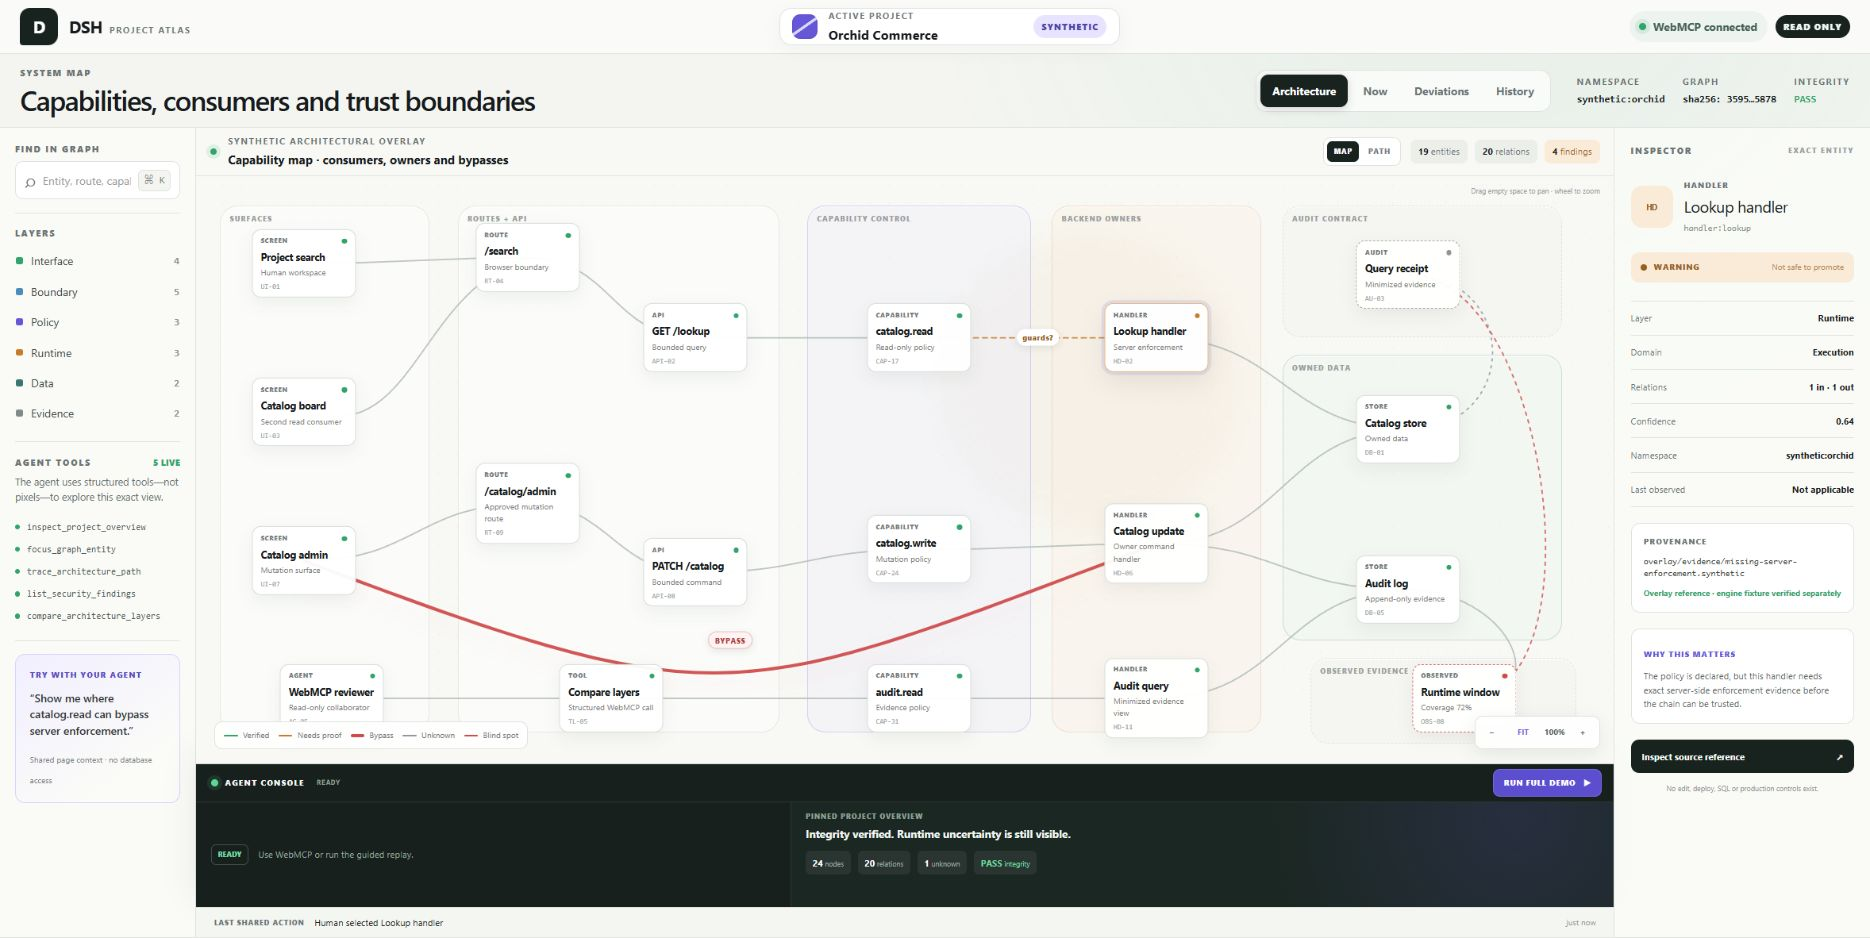
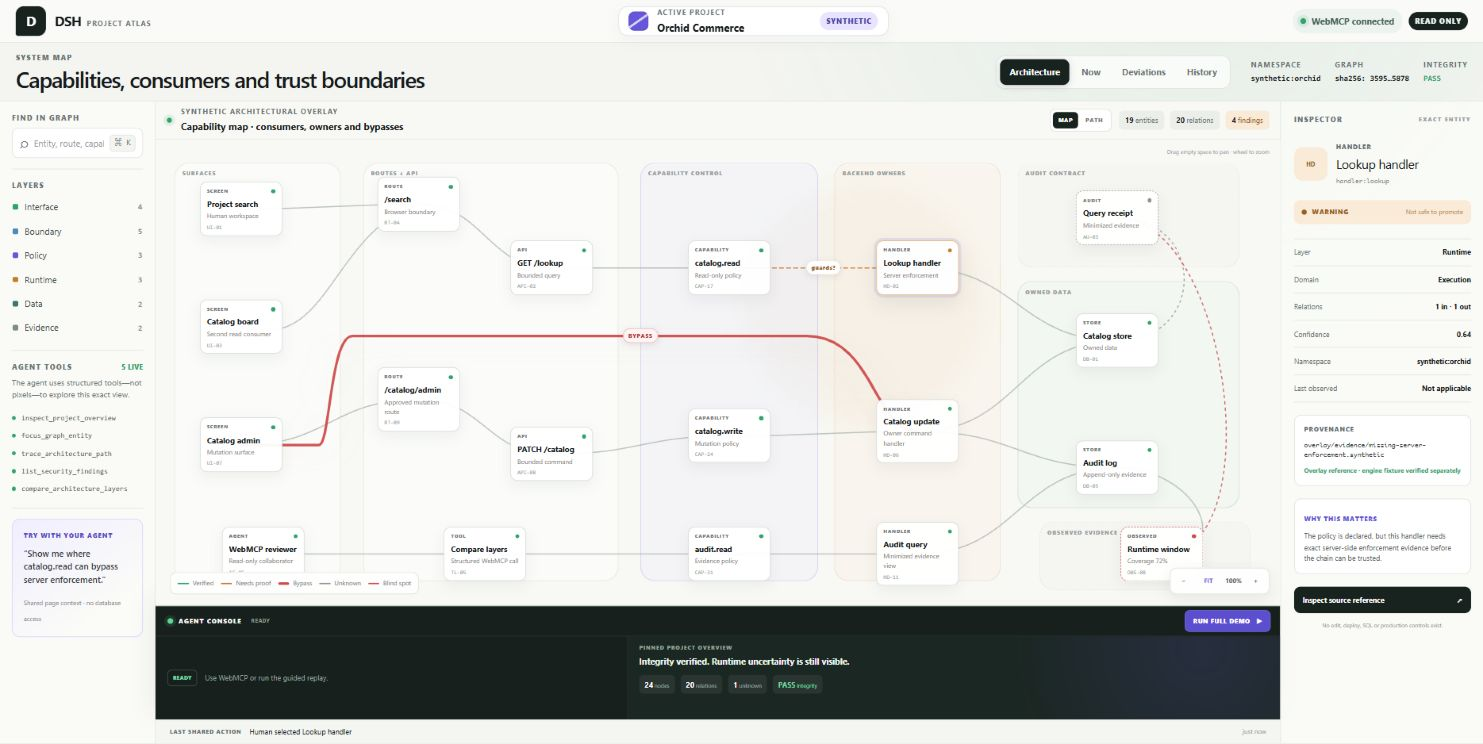
Clarify the Atlas bypass route

diff --git a/app/page.tsx b/app/page.tsx
@@ -46,6 +46,7 @@ type GraphEdge = {
   label: string;
   state: EdgeState;
   bend?: number;
+  route?: 'upper-review-lane';
 };
 
 type Finding = {
@@ -389,7 +390,13 @@ const edges: GraphEdge[] = [
   { from: 'capability:audit-read', to: 'handler:audit-query', label: 'guards', state: 'verified' },
   { from: 'handler:audit-query', to: 'store:audit-log', label: 'reads', state: 'verified' },
   { from: 'store:audit-log', to: 'telemetry:window', label: 'projects', state: 'verified' },
-  { from: 'screen:catalog-admin', to: 'handler:catalog-update', label: 'BYPASS', state: 'bypass', bend: 28 },
+  {
+    from: 'screen:catalog-admin',
+    to: 'handler:catalog-update',
+    label: 'BYPASS',
+    state: 'bypass',
+    route: 'upper-review-lane',
+  },
 ];
 
 const findings: Finding[] = [
@@ -494,6 +501,13 @@ function graphPosition(node: GraphNode, presentation: GraphPresentation, pathEnt
 }
 
 function graphEdgePath(edge: GraphEdge, from: GraphPosition, to: GraphPosition) {
+  if (edge.route === 'upper-review-lane') {
+    const laneY = 42;
+    const exitSourceX = from.x + 7;
+    const enterLaneX = from.x + 10;
+    const leaveLaneX = to.x - 10;
+    return `M ${from.x} ${from.y} C ${from.x + 3} ${from.y}, ${from.x + 5} ${from.y}, ${exitSourceX} ${from.y} C ${exitSourceX + 1} ${from.y}, ${exitSourceX + 1} ${laneY}, ${enterLaneX} ${laneY} L ${leaveLaneX} ${laneY} C ${to.x - 4} ${laneY}, ${to.x - 4} ${to.y}, ${to.x} ${to.y}`;
+  }
   const vertical = Math.abs(to.x - from.x) < 6;
   if (vertical) {
     const offset = edge.bend ?? 7;
@@ -505,6 +519,9 @@ function graphEdgePath(edge: GraphEdge, from: GraphPosition, to: GraphPosition) 
 }
 
 function graphEdgeLabelPosition(edge: GraphEdge, from: GraphPosition, to: GraphPosition): GraphPosition {
+  if (edge.route === 'upper-review-lane') {
+    return { x: 43, y: 42 };
+  }
   return {
     x: (from.x + to.x) / 2,
     y: (from.y + to.y) / 2 + (edge.bend ?? 0) * 0.55,

diff --git a/design-qa.md b/design-qa.md
@@ -2,13 +2,15 @@
 
 ## Comparison target
 
-- Source visual truth: user-supplied `codex-clipboard-16e2bb25-19c1-4a02-9ffb-df30476d5cf1.png` from the previous public Atlas build (conversation attachment; not committed).
+- Shell source visual truth: user-supplied `codex-clipboard-16e2bb25-19c1-4a02-9ffb-df30476d5cf1.png` from the previous public Atlas build (conversation attachment; not committed).
+- BYPASS correction source: user-supplied `codex-clipboard-2b49a2b0-ca73-4f37-8554-83459ead178f.png` (629 × 219; conversation attachment, not committed), where the direct red relation visually passed through `Compare layers`.
 - Rendered implementation: [`docs/atlas-map-final.png`](docs/atlas-map-final.png).
+- Focused implementation evidence: [`docs/atlas-bypass-route.png`](docs/atlas-bypass-route.png).
 - Route and mode: root page, light theme, Architecture / Map.
 - Source pixels: 1870 × 939.
-- Implementation pixels: 1870 × 938.
+- Implementation pixels: 1483 × 744 for the full capture and 913 × 413 for the focused capture.
 - Implementation CSS viewport: 1870 × 938 at the browser's normalized capture density.
-- Density normalization: source and implementation were opened together at original resolution; the one-pixel height difference does not affect the application region.
+- Density normalization: the in-app browser captures at approximately 0.793 output pixels per CSS pixel. Geometry and overflow were therefore checked in CSS pixels, while visual comparisons used each image at its original saved resolution.
 - State note: the source selected `screen:project-search`; the implementation intentionally selects `handler:lookup` so the default demo immediately exposes a needs-proof boundary. Layout, theme, shell, and Architecture mode are otherwise directly comparable.
 
 ## Full-view comparison evidence
@@ -24,6 +26,7 @@ At effective 1366 × 768 and 1440 × 900 browser checks, document `scrollWidth/s
 - Colors and tokens: the original ink, paper, green, violet, amber, and red semantics are preserved. The new red BYPASS is additionally distinguished by line weight and a text label.
 - Image and asset quality: this interface has no photographic or illustrative target assets. The existing DSH mark and CSS-native data visualization remain sharp at both tested desktop sizes; no source imagery was replaced.
 - Copy and content: labels consistently describe synthetic capabilities, consumers, owners, data, audit, and evidence. `READ ONLY`, uncertainty, and synthetic-data boundaries remain explicit.
+- BYPASS routing: the semantic edge remains `screen:catalog-admin → handler:catalog-update`, but the stroke now uses a dedicated upper review lane. It does not visually or geometrically enter `Compare layers`, the approved route/API/capability cards, or any other unrelated node.
 
 ## Interaction and accessibility evidence
 
@@ -56,6 +59,26 @@ Fixes made:
 - Effective 1440 × 900: 19/19 nodes inside canvas; 20 relations; no document-level scroll.
 - Path → Map: six nodes → nineteen nodes; dimmed nodes after Map: zero.
 - Final same-size visual capture: [`docs/atlas-map-final.png`](docs/atlas-map-final.png).
+- No actionable P0, P1, or P2 issue remains.
+
+### Iteration 3 — BYPASS correction blocked
+
+- [P2] Replacing the original curve with a lower lane at `y=79` removed the semantic ambiguity in geometry, but full-view inspection still made the stroke appear to touch the top edge of `Compare layers`.
+- [P2] Raising that lane to `y=74` cleared `Compare layers`, but made the stroke tangent to `PATCH /catalog`.
+- [P2] The intermediate `y=76.5` corridor cleared both cards at 1870 × 938, but the available gap was too narrow at effective 1366 × 768 and intersected `PATCH /catalog`.
+
+Fix made:
+
+- replaced the narrow lower corridor with an explicit upper review lane that exits the source before the approved route, crosses empty space between the read and mutation rows, and approaches only the exact target handler.
+
+### Iteration 4 — final BYPASS evidence
+
+- The full and focused captures were opened together with the user-provided problem screenshot.
+- Effective 1870 × 938: zero unrelated node intersections, zero label intersections, and no document scroll.
+- Effective 1440 × 900: zero unrelated node intersections, zero label intersections, and no document scroll.
+- Effective 1366 × 768: zero unrelated node intersections, zero label intersections, and no document scroll.
+- `Compare layers` retains only its approved `WebMCP reviewer → Compare layers → audit.read` chain.
+- Fonts, spacing, colors, images/assets, copy, shell proportions, and all non-BYPASS relations are unchanged.
 - No actionable P0, P1, or P2 issue remains.
 
 ## Follow-up polish
